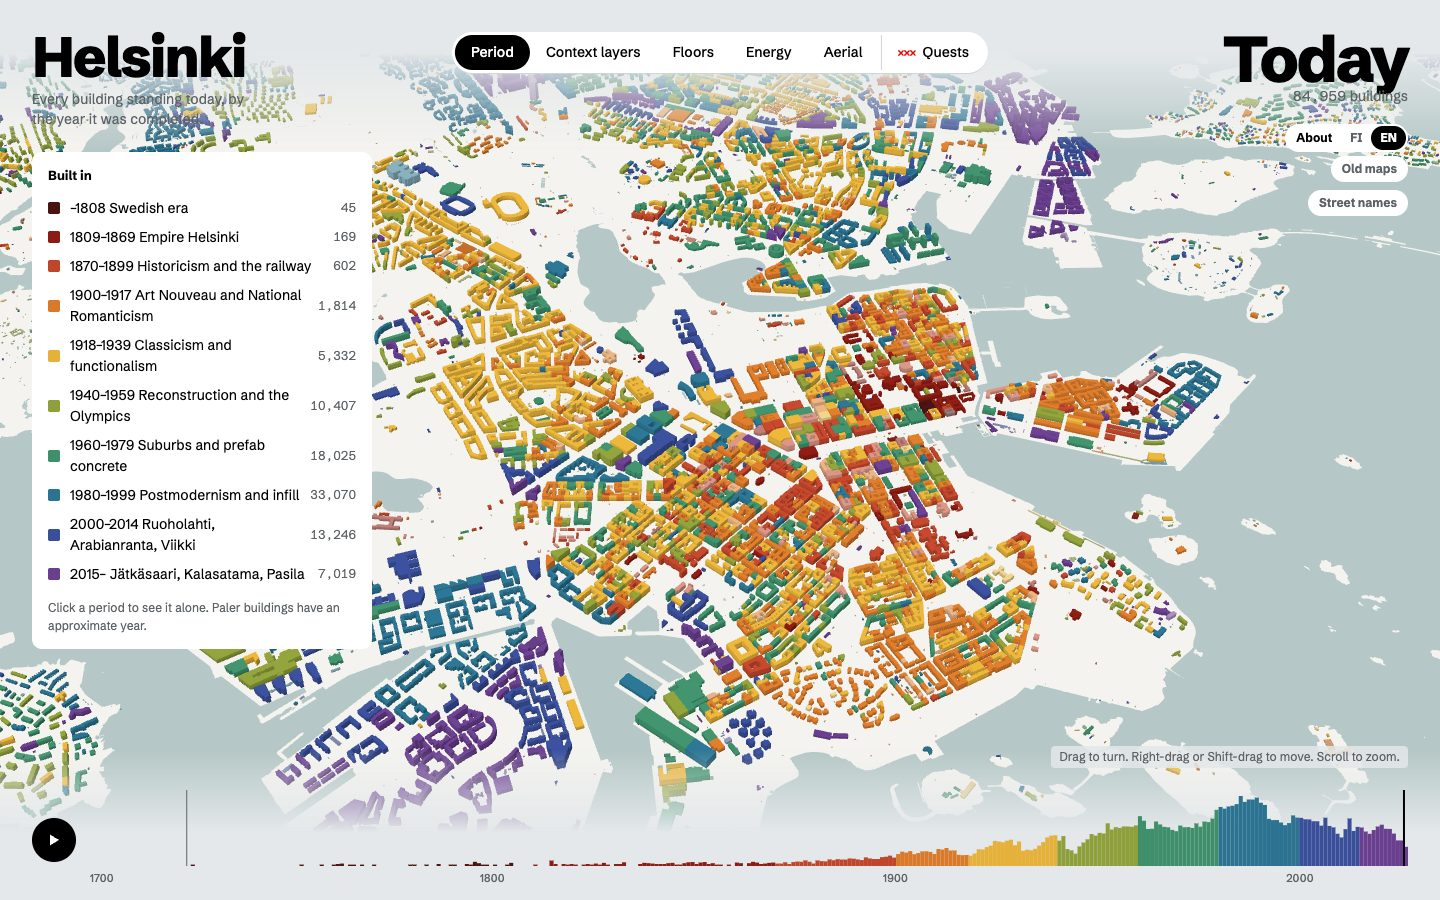
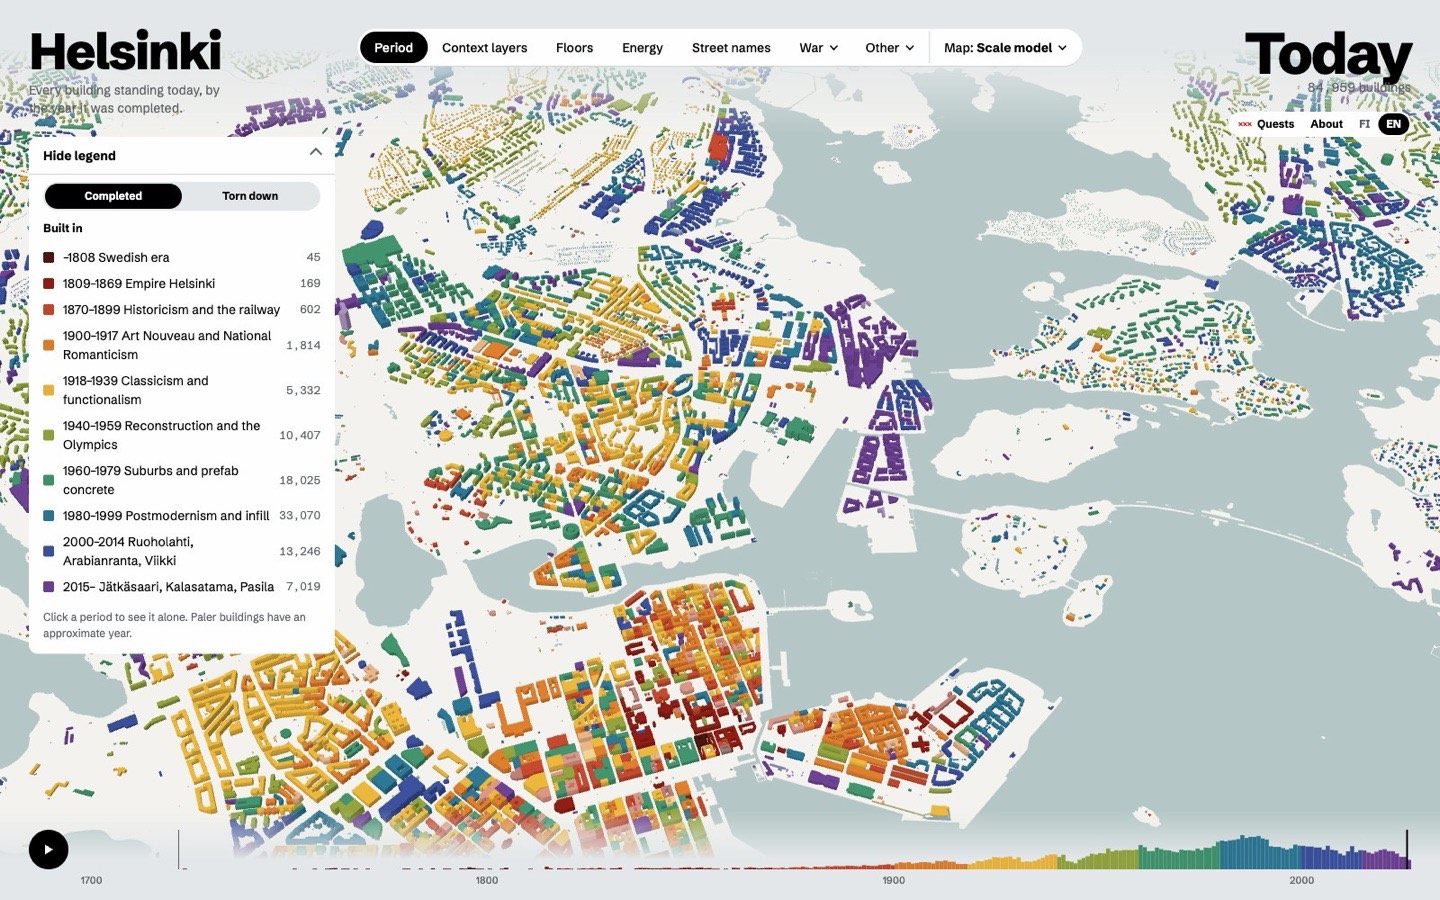
README: screenshots of the new views
The hero is retaken with today's bar, and eight are new: Floors in its
seven steps, the land front of 1914-1918, bomb damage of 1944, the tram
network of 1952, the Heritage Agency's photos of Senate Square, public
art, the master plan proposal of 1960 and road traffic noise in 2022.
The credits name the photographers and data they show.

diff --git a/README.md b/README.md
@@ -33,21 +33,35 @@ three.js city, follows theirs. The viewer in `web/` is Amsterdam's, with Helsink
 
 ![Helsinki's buildings coloured by the period they were completed, seen from the sea](docs/screenshots/city.jpg)
 
+| Floors, in seven steps | War: the land front of 1914–1918 | War: bomb damage of 1944 |
+|---|---|---|
+| ![The city centre coloured by floors, from yellow (one) to navy (13 and more)](docs/screenshots/floors.jpg) | ![Strongpoint IV's trenches, coloured by what the 1996 survey found of them, and its structures as dots](docs/screenshots/landfront.jpg) | ![Unioninkatu 30 bombed in 1944, the Cathedral behind, in the City Museum's photo](docs/screenshots/bombing.jpg) |
+
+| Other: the tram network of 1952 | Other: the Heritage Agency's photos of Senate Square | Other: public art |
+|---|---|---|
+| ![The tram tracks in use in 1952 over the city of that year](docs/screenshots/trams.jpg) | ![Senate Square's card with a photo of 1900 and a button for each decade of its 1,722 photos](docs/screenshots/mvphotos.jpg) | ![Havis Amanda's card among the city's public art, coloured by period](docs/screenshots/art.jpg) |
+
+| Map: the master plan proposal of 1960 | Map: road traffic noise in 2022 | Map: the city of 1909 |
+|---|---|---|
+| ![The master plan proposal of 1960 under today's buildings](docs/screenshots/plan.jpg) | ![The 2022 survey's road traffic noise by day, the buildings hidden](docs/screenshots/noise.jpg) | ![The buildings standing in 1909 on the city map of 1909](docs/screenshots/oldmap.jpg) |
+
 | The building's card: archive photos through the years | Context layer: protected in the local plan | Quests: find the building from an old photo |
 |---|---|---|
 | ![The Government Palace card with C.A. Hårdh's photo from 1866](docs/screenshots/archive.jpg) | ![Buildings protected in local plans, by marking](docs/screenshots/protected.jpg) | ![A solved quest step: Kaivohuone in 1870 and today](docs/screenshots/quest.jpg) |
 
-| Aerial view: the city's 3D model from its 2024 aerial photos | Back to 2017: Pasila on that year's aerial photo, Tripla still a building site | Street names: the former names of Pohjoisesplanadi |
+| Aerial 3D: the city's model from its 2024 aerial photos | Back to 2017: Pasila on that year's aerial photo, Tripla still a building site | Street names: the former names of Pohjoisesplanadi |
 |---|---|---|
 | ![The Market Square and the Cathedral in the 2024 photogrammetric mesh](docs/screenshots/aerial.jpg) | ![Pasila in 2017 on the aerial photo of that year: Tripla's site still a pit, and the buildings demolished since standing pale](docs/screenshots/demolished.jpg) | ![The Street names view: streets with a former name in blue, Pohjoisesplanadi's card](docs/screenshots/streets.jpg) |
 
-| Energy labels | Solar potential of the roofs | Old maps: the city of 1909 |
-|---|---|---|
-| ![Buildings coloured by their energy label](docs/screenshots/energy.jpg) | ![Buildings coloured by the solar power their roofs could give](docs/screenshots/solar.jpg) | ![The buildings standing in 1909 on the city map of 1909](docs/screenshots/oldmap.jpg) |
+| Energy labels | Solar potential of the roofs |
+|---|---|
+| ![Buildings coloured by their energy label](docs/screenshots/energy.jpg) | ![Buildings coloured by the solar power their roofs could give](docs/screenshots/solar.jpg) |
 
 Screenshots of the map, which uses CC BY 4.0 data © City of Helsinki (buildings, the 3D model and its aerial meshes,
-aerial photos, old maps, street areas and place names) and © HSY (solar potential), and the public energy
-certificates of Varke's register. They show photos by C.A. Hårdh (Helsinki City Museum, public domain) and, in the
+aerial photos, old maps, master plans, noise surveys, the land front's survey, street areas and place names) and © HSY
+(solar potential), the public energy certificates of Varke's register, OpenHistoricalMap's tram tracks (CC0) and the
+Helsinki Art Museum's text on Havis Amanda (CC BY 4.0). They show photos by C.A. Hårdh and Jukka Kuusisto (Helsinki
+City Museum, public domain), by Atelier Aino (Finnish Heritage Agency, Historian kuvakokoelma, CC BY 4.0) and, in the
 quest, Kaivohuone today by
 [Marit Henriksson](https://commons.wikimedia.org/wiki/File:Kaivohuone_A_-Marit_Henriksson.jpg) (CC BY-SA 4.0).
 
